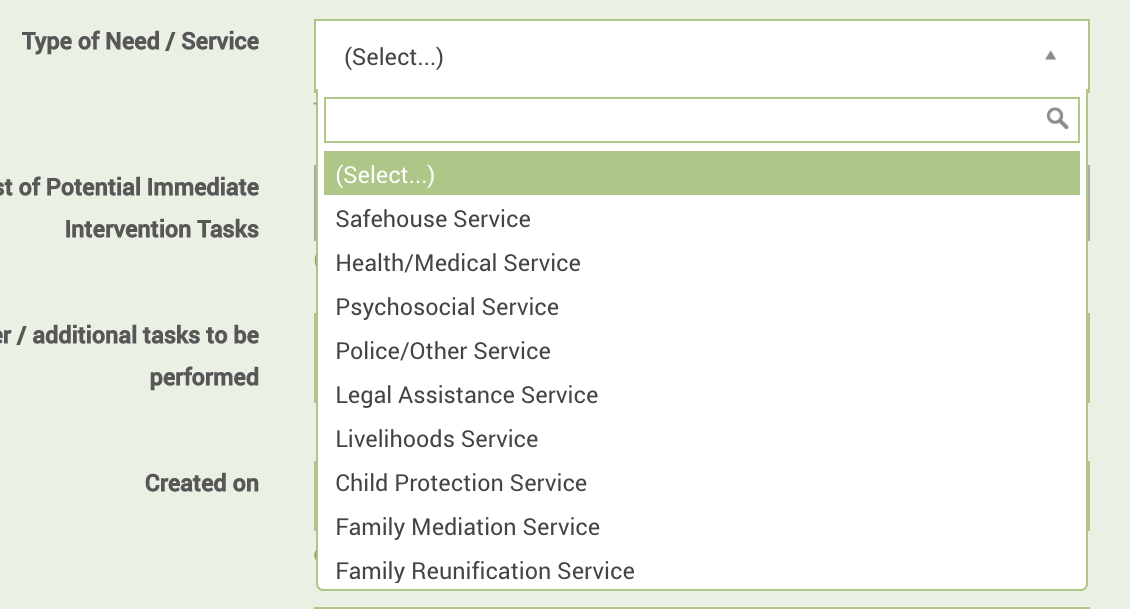
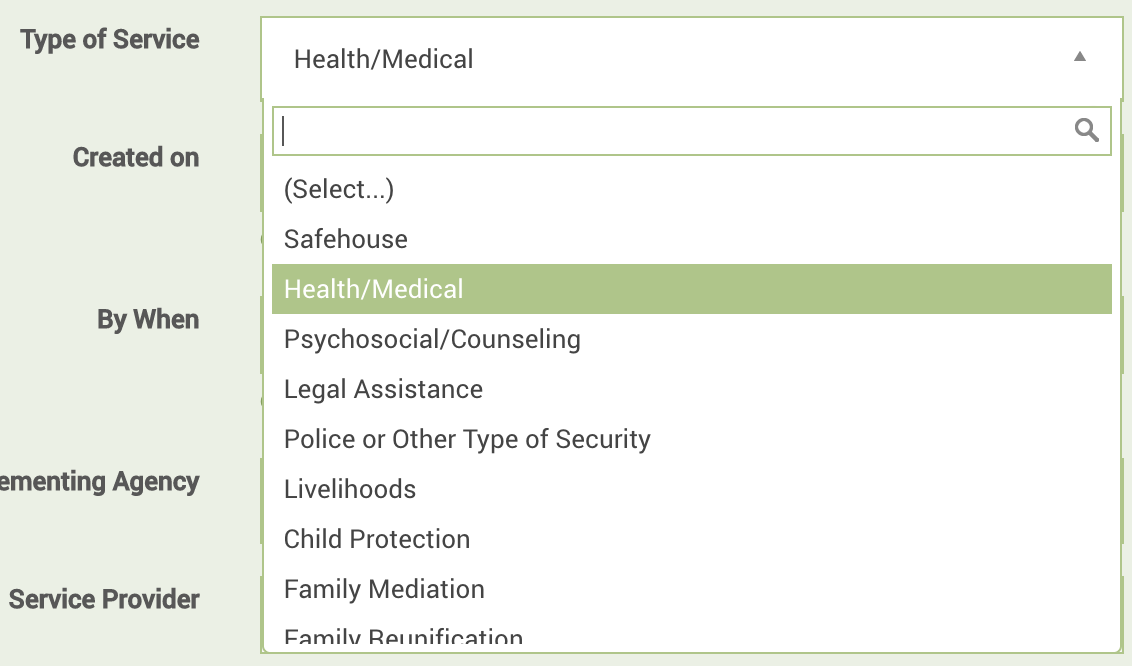
LB-165: Changes to sections discussing services form and timeframes.

diff --git a/UsersGuide.md b/UsersGuide.md
@@ -461,11 +461,13 @@ Another important field to fill in is the type of service that will be rendered 
 
 ![](img/image98.png)
 
-Choosing a timeframe for the response will help generate reminders in you or your manager's dashboard when the response is coming due or overdue. For more information on these reminders, check out the Dashboards section.
+Choosing a timeframe for the response will help generate reminders in you or your manager's dashboard when the response is coming due or overdue. This timeframe, depending on your configuration, will take one of two forms: the time period after which the response will be due (e.g. three hours, one day); or the actual due date for the response (e.g. November 30, 2017). Both these forms are displayed in the pictures below. For more information on these reminders, check out the Dashboards section.
 
 ![](img/image101.png)
 
-Selecting a service provider in this form will allow you to refer your case to the service provider directly from the form. Make sure you fill in this field, or no "REFER" button will appear for this particular response. In the situation below, we have selected a medical specialist to perform a medical service for our case.
+![](img/image106.png)
+
+Selecting a service provider in this form will allow you to refer your case to the service provider directly from the form. Make sure you fill in the "Service Provider Name" field, or no "REFER" button will appear for this particular response. In the situation below, we have selected a medical specialist to perform a medical service for our case.
 
 ![](img/image99.png)
 
